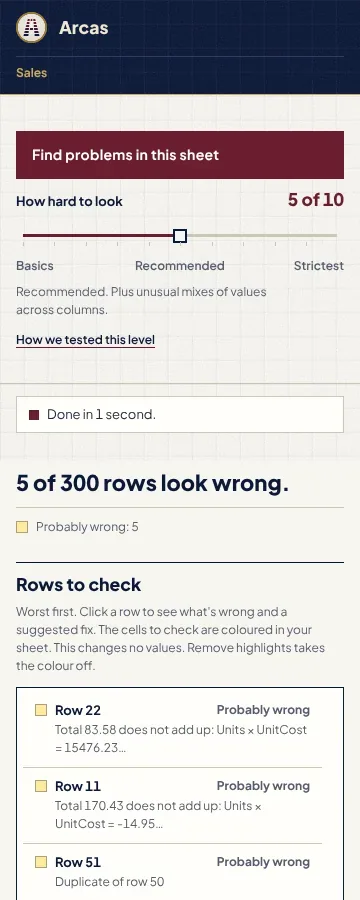
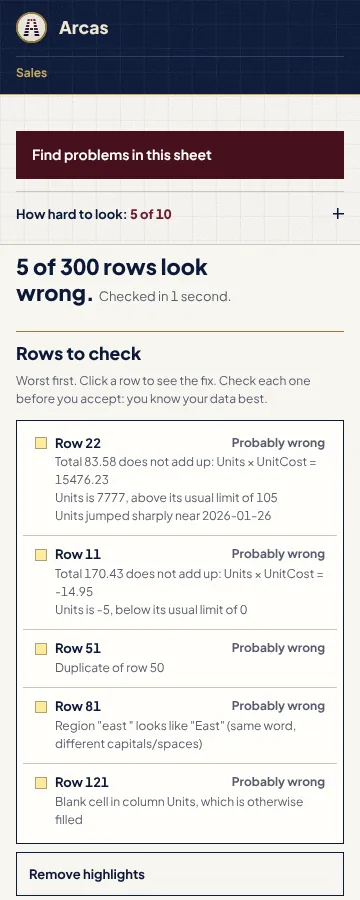
AH-227/228: the site's picture of the pane is today's pane, its window moved to the summary
The pane's results now start higher and say less (AH-228), so the 2026-11 picture showed words the pane no
longer says. Retaken at 360 x 900 after a scan of e2e's 300-row sheet (plain lossy WebP, 29 KB); the 364 px
window moves from 87% to 45% so it still runs from "5 of 300 rows look wrong." to row 11.

Claude-Session: https://claude.ai/code/session_01Hh1mtMLoqdVZ6uae6m9iY7

diff --git a/site/styles.css b/site/styles.css
@@ -484,7 +484,7 @@ td.why i.ok { display: inline-block; width: 10px; height: 10px; margin-right: 8p
 .all-checks { grid-column: 1 / span 7; grid-row: 3; margin-top: var(--s4); font-weight: 700; }
 .all-checks a { color: var(--on-dark); text-decoration-color: var(--gold-hi); }
 .shot { grid-column: 9 / -1; grid-row: 1 / span 3; margin: 0; display: grid; gap: var(--s2); justify-items: start; align-content: start; }
-.shot img { display: block; box-sizing: content-box; width: 360px; max-width: calc(100% - 2px); height: auto; aspect-ratio: 360 / 364; object-fit: cover; object-position: 50% 87%; border: 1px solid var(--on-dark-2); background: var(--paper-2); }
+.shot img { display: block; box-sizing: content-box; width: 360px; max-width: calc(100% - 2px); height: auto; aspect-ratio: 360 / 364; object-fit: cover; object-position: 50% 45%; border: 1px solid var(--on-dark-2); background: var(--paper-2); }
 .shot figcaption { max-width: 22rem; font-size: var(--fs--1); color: var(--on-dark-2); }
 #preview:focus, #checks:focus { outline: none; } /* a glide's target takes focus for the keyboard and screen readers; the region itself shows no ring */
 
@@ -1036,7 +1036,7 @@ html[data-moving] #field { z-index: 2; }
      wide in one set column (AH-171: the phone's home page within its 8,397 px) */
   .shot { grid-template-columns: minmax(0, 1fr); }
   /* AH-227 W-35: a window of the pane at 1:1, its left edge kept (at 300 px wide it was drawn at 83%) */
-  .shot img { width: calc(100% - 2px); max-width: 360px; height: 364px; aspect-ratio: auto; object-fit: none; object-position: 0 87%; }
+  .shot img { width: calc(100% - 2px); max-width: 360px; height: 364px; aspect-ratio: auto; object-fit: none; object-position: 0 45%; }
   .steps li { grid-template-columns: auto minmax(0, 1fr); column-gap: var(--s2); }
   .steps ol { margin-top: 0; gap: var(--s2); } /* AH-227 W-12 */
   .stage { margin-top: var(--s5); }
